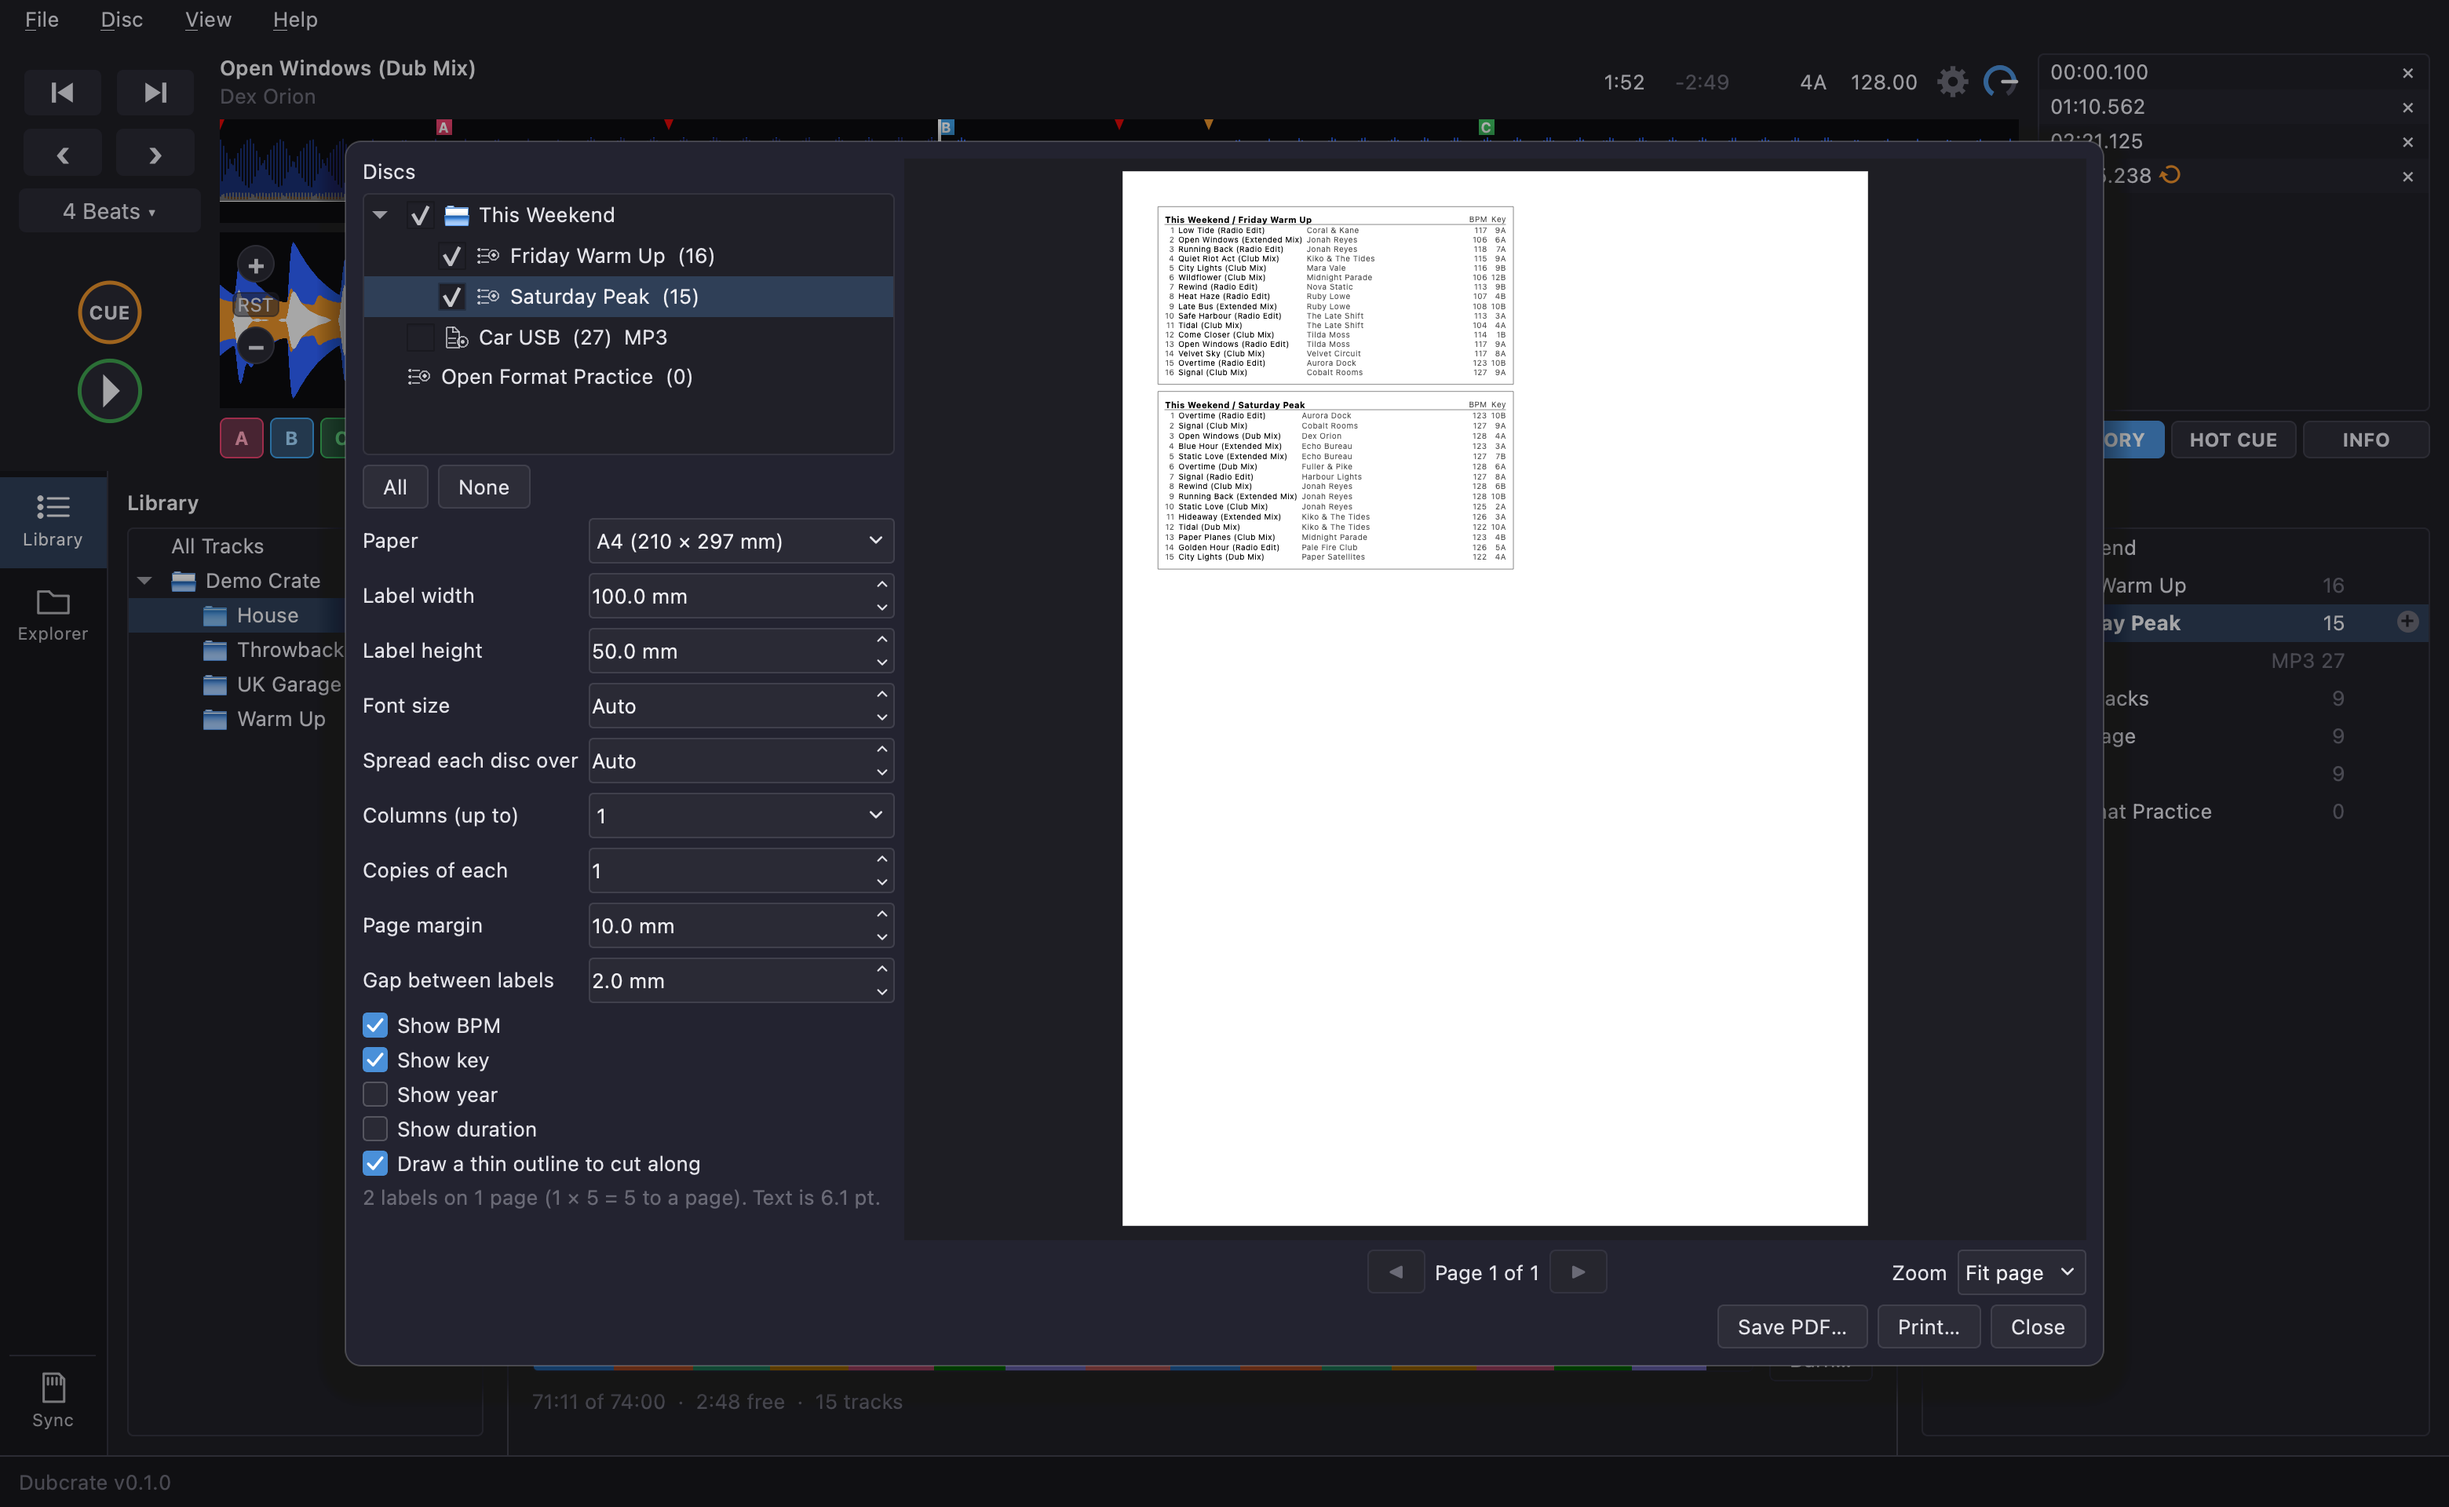
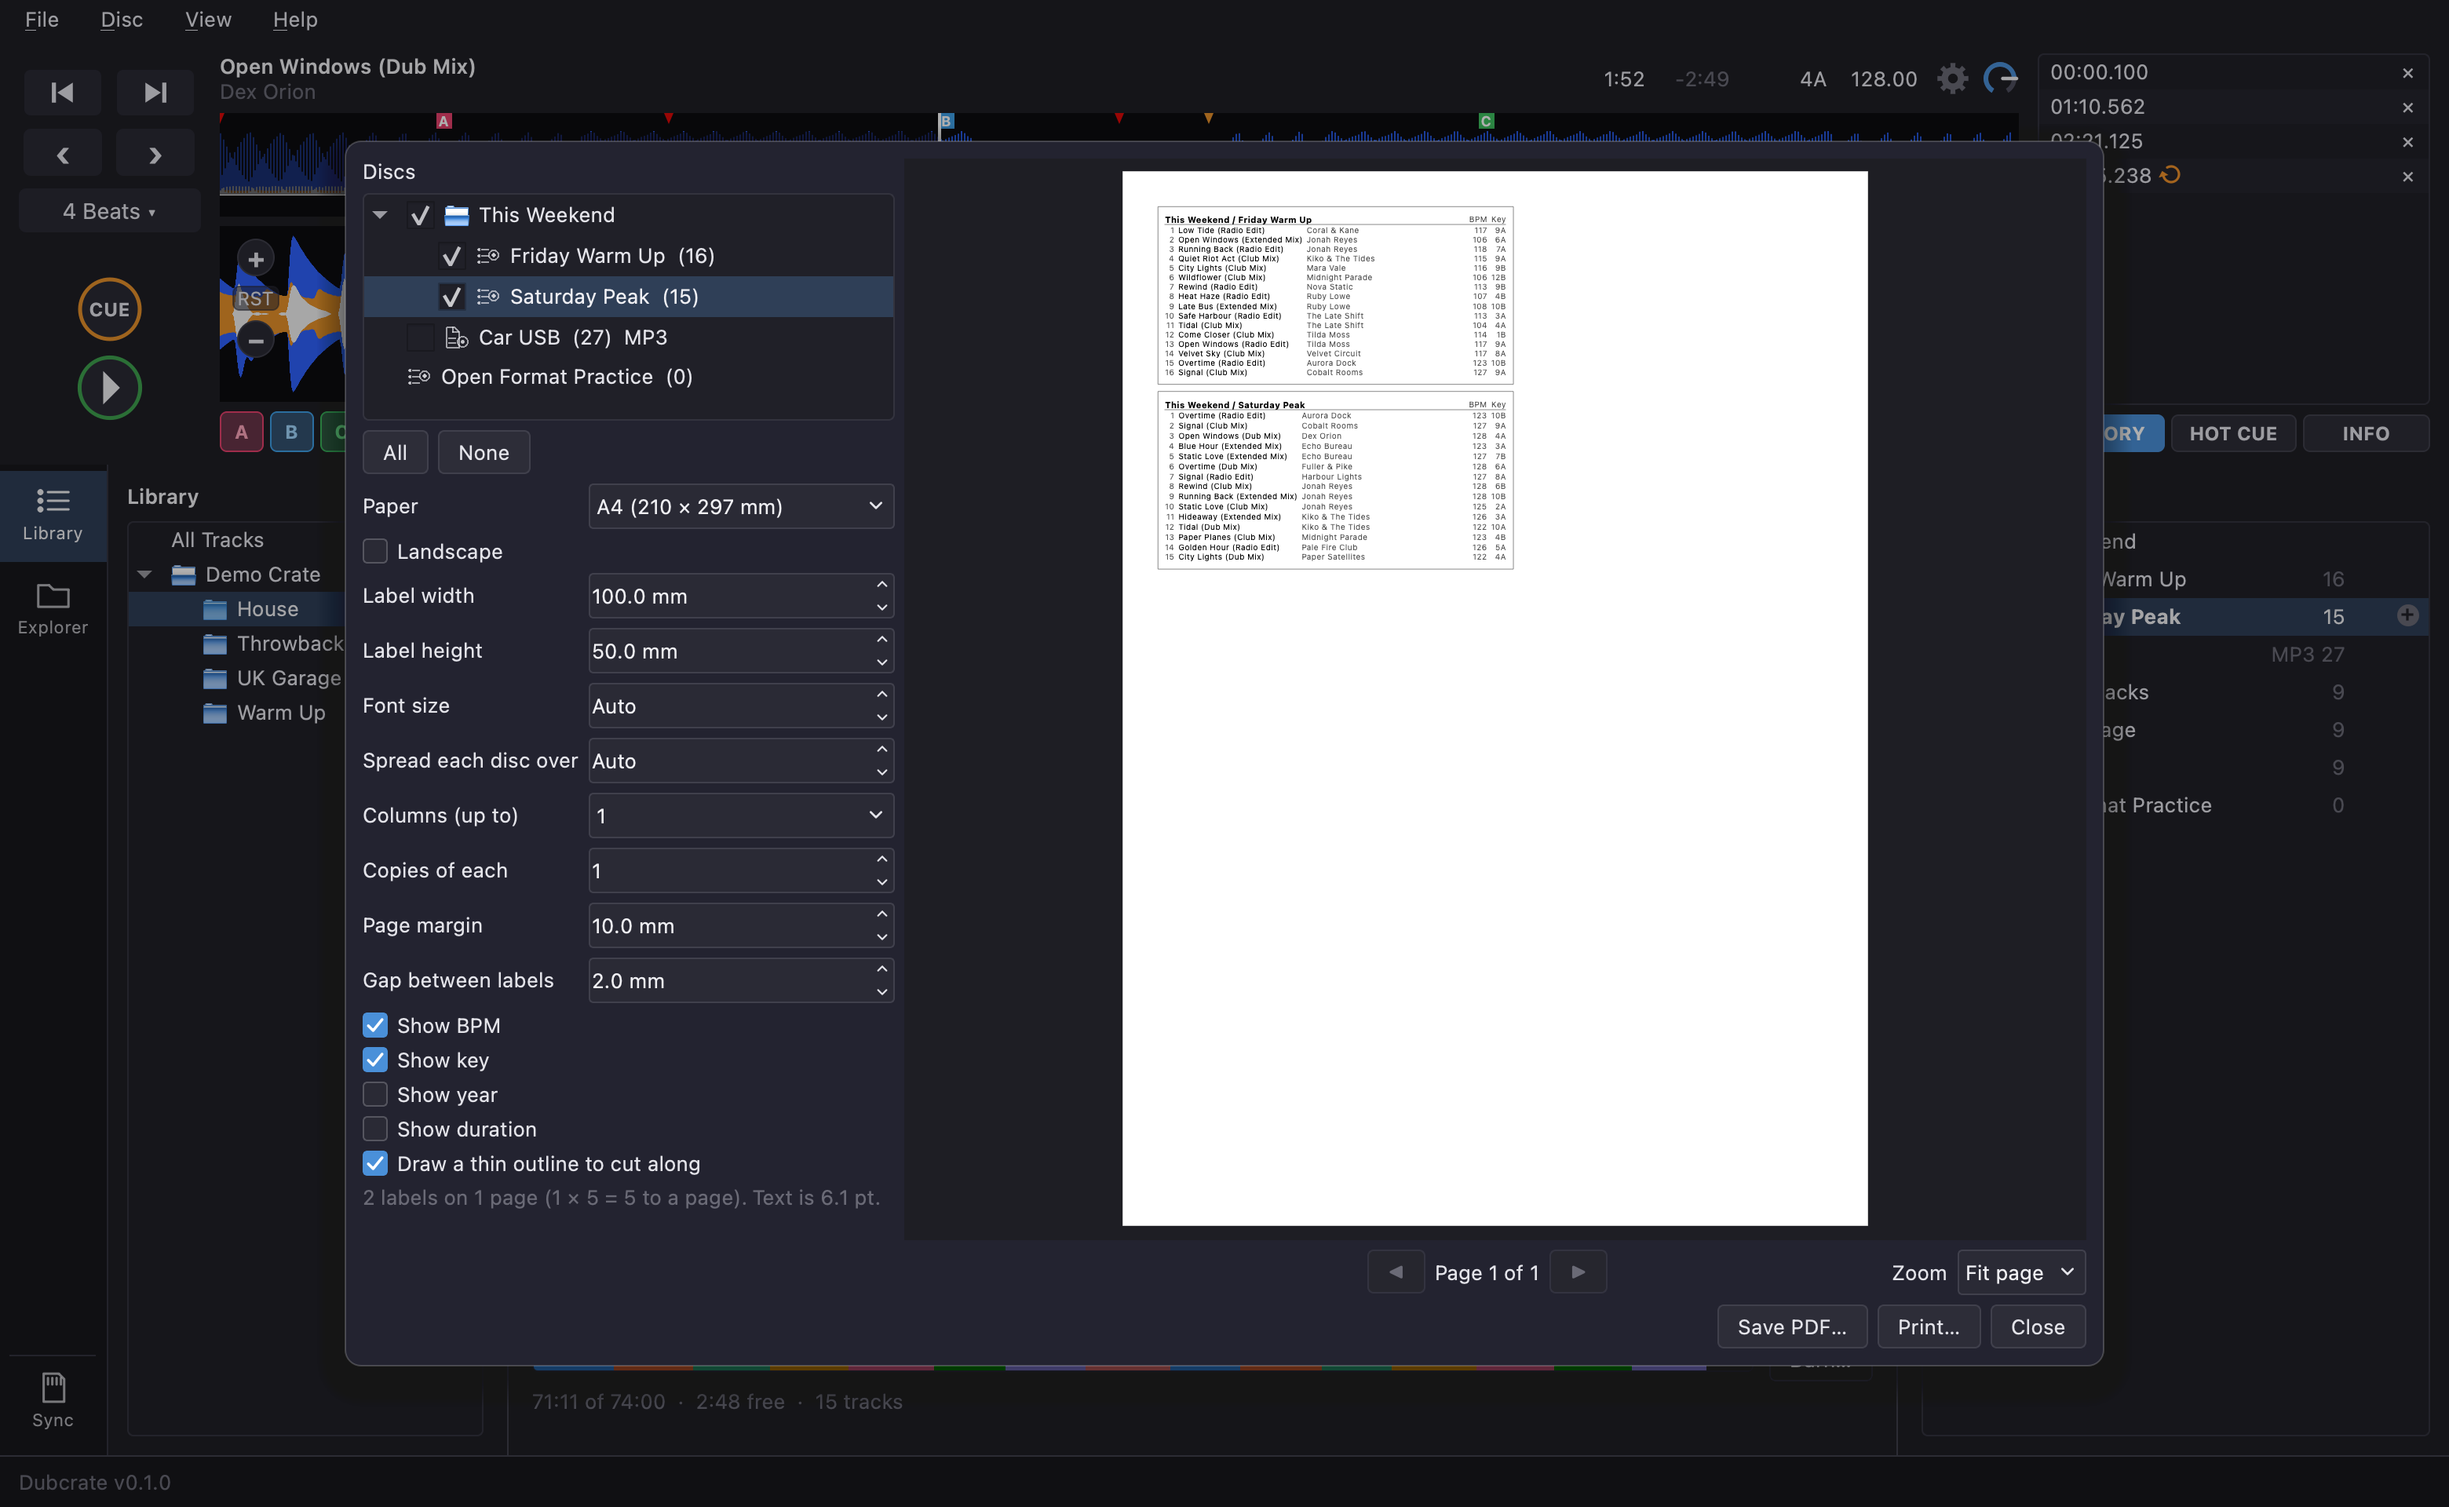
labels: landscape printing option

diff --git a/src/dubcrate/ui/label_dialog.py b/src/dubcrate/ui/label_dialog.py
@@ -130,6 +130,11 @@ class LabelDialog(QDialog):
             self.page_combo.addItem(units.page_text(name, w, h, self._unit), name)
         self.page_combo.setCurrentIndex(max(self.page_combo.findData(o.page), 0))
         self.page_combo.setToolTip("The paper in the printer.")
+        self.landscape_check = QCheckBox("Landscape")
+        self.landscape_check.setChecked(o.landscape)
+        self.landscape_check.setToolTip(
+            "Turn the paper on its side: wide labels fit more to a sheet, so less paper is used."
+        )
         page_w, page_h = o.page_mm
         self.width_spin = LengthSpin(
             o.width_mm, labels.MIN_LABEL_MM, page_w, self._unit.key
@@ -200,6 +205,7 @@ class LabelDialog(QDialog):
 
         form = QFormLayout()
         form.addRow("Paper", self.page_combo)
+        form.addRow(self.landscape_check)
         form.addRow("Label width", self.width_spin)
         form.addRow("Label height", self.height_spin)
         form.addRow("Font size", self.font_spin)
@@ -297,6 +303,7 @@ class LabelDialog(QDialog):
             spin.valueChanged.connect(self.refresh)
         self.columns_combo.currentIndexChanged.connect(self.refresh)
         self.page_combo.currentIndexChanged.connect(self._page_size_changed)
+        self.landscape_check.toggled.connect(self._page_size_changed)
         self.bpm_check.toggled.connect(self.refresh)
         self.key_check.toggled.connect(self.refresh)
         self.year_check.toggled.connect(self.refresh)
@@ -342,7 +349,7 @@ class LabelDialog(QDialog):
 
     def _page_size_changed(self, *_args) -> None:
         """Labels can't be bigger than the paper: the width and height limits follow it."""
-        page_w, page_h = labels.PAGE_SIZES[self.page_combo.currentData()]
+        page_w, page_h = self.options().page_mm
         # (a value above the new limit is lowered)
         self.width_spin.set_range_mm(labels.MIN_LABEL_MM, page_w)
         self.height_spin.set_range_mm(labels.MIN_LABEL_MM, page_h)
@@ -503,6 +510,7 @@ class LabelDialog(QDialog):
     def options(self) -> labels.LabelOptions:
         return labels.LabelOptions(
             page=self.page_combo.currentData(),
+            landscape=self.landscape_check.isChecked(),
             font_pt=self.font_spin.value(),
             width_mm=self.width_spin.mm,
             height_mm=self.height_spin.mm,

diff --git a/src/dubcrate/labels.py b/src/dubcrate/labels.py
@@ -51,6 +51,9 @@ class LabelOptions:
     """What the user chooses in the print window (and what is remembered between runs)."""
 
     page: str = DEFAULT_PAGE  # a key of PAGE_SIZES
+    landscape: bool = (
+        False  # the paper turned on its side (more labels across a short label)
+    )
     font_pt: float = (
         0.0  # text size in points; 0: as large as fits (see `font_size_mm`)
     )
@@ -73,14 +76,15 @@ class LabelOptions:
 
     @property
     def page_mm(self) -> tuple[float, float]:
-        """(width, height) of the paper in millimetres."""
-        return PAGE_SIZES.get(self.page, PAGE_SIZES[DEFAULT_PAGE])
+        """(width, height) of the paper in millimetres, as it is held: swapped when landscape."""
+        width, height = PAGE_SIZES.get(self.page, PAGE_SIZES[DEFAULT_PAGE])
+        return (height, width) if self.landscape else (width, height)
 
     def clamped(self) -> "LabelOptions":
         """The same options with every number put inside what makes sense: a label is never
         bigger than the page, and an unknown paper is A4."""
         page = self.page if self.page in PAGE_SIZES else DEFAULT_PAGE
-        page_w, page_h = PAGE_SIZES[page]
+        page_w, page_h = replace(self, page=page).page_mm
         return replace(
             self,
             page=page,

diff --git a/tests/test_ui_labels.py b/tests/test_ui_labels.py
@@ -978,3 +978,26 @@ def test_all_three_side_columns_print_in_one_and_in_several_columns(
         )
         dialog.save_pdf()
         assert target.read_bytes().startswith(b"%PDF")
+
+
+def test_landscape_sets_the_printers_page_the_limits_the_preview_and_is_remembered(
+    qapp, lib, discs
+):
+    layout = label_paint.page_layout(labels.LabelOptions(landscape=True))
+    mm = layout.pageSize().size(layout.pageSize().Unit.Millimeter)
+    assert layout.orientation() == layout.Orientation.Landscape
+    assert round(layout.fullRect(layout.Unit.Millimeter).width()) == 297
+    assert (round(mm.width()), round(mm.height())) == (210, 297)  # (the paper itself)
+    dialog = LabelDialog(lib)
+    dialog.resize(900, 700)
+    dialog.show()
+    tick(dialog, discs[0])
+    assert dialog.width_spin.maximum() == 210
+    dialog.landscape_check.setChecked(True)
+    assert dialog.width_spin.maximum() == 297 and dialog.height_spin.maximum() == 210
+    assert abs(aspect(dialog.preview) - 297 / 210) < 0.01
+    assert dialog.options().landscape
+    settings.set_label_options(dialog.options())
+    assert settings.get_label_options().landscape
+    dialog.close()
+    assert LabelDialog(lib).landscape_check.isChecked()  # comes back as it was left

diff --git a/tests/test_labels.py b/tests/test_labels.py
@@ -531,3 +531,16 @@ def test_the_side_columns_are_the_ones_with_something_in_them_in_a_fixed_order()
     assert time_only.side_columns == (("Time", "length"),)
     [none] = labels.build_labels("N", es, LabelOptions(show_bpm=False, show_key=False))
     assert none.side_columns == ()
+
+
+def test_landscape_turns_the_paper_so_a_wide_label_fits_more_to_a_sheet():
+    base = LabelOptions(width_mm=100, height_mm=50)
+    assert labels.sheet_for(base).per_page == 5  # 1 across, 5 down on portrait A4
+    sideways = replace(base, landscape=True)
+    assert sideways.page_mm == (297.0, 210.0)
+    sheet = labels.sheet_for(sideways)
+    assert (sheet.columns, sheet.rows) == (2, 3)  # 277 x 190 mm of room
+    # a label wider than portrait paper is allowed once it is turned
+    wide = LabelOptions(width_mm=250, height_mm=50, landscape=True).clamped()
+    assert wide.width_mm == 250
+    assert LabelOptions(width_mm=250, height_mm=50).clamped().width_mm == 210

diff --git a/src/dubcrate/ui/label_paint.py b/src/dubcrate/ui/label_paint.py
@@ -53,10 +53,12 @@ PAGE_IDS = {
 
 
 def page_layout(options: LabelOptions) -> QPageLayout:
-    """The chosen paper, portrait, with no margins: the options place everything themselves."""
+    """The chosen paper, portrait or landscape, with no margins: the options place everything themselves."""
     return QPageLayout(
         QPageSize(PAGE_IDS[options.page]),
-        QPageLayout.Orientation.Portrait,
+        QPageLayout.Orientation.Landscape
+        if options.landscape
+        else QPageLayout.Orientation.Portrait,
         QMarginsF(0, 0, 0, 0),
     )
 

diff --git a/src/dubcrate/settings.py b/src/dubcrate/settings.py
@@ -264,6 +264,7 @@ def get_label_options() -> labels.LabelOptions:
 
     return labels.LabelOptions(
         page=str(qs.value("labels/page", default.page)),
+        landscape=_as_bool(qs.value("labels/landscape"), default.landscape),
         font_pt=number("font_pt", default.font_pt),
         width_mm=number("width_mm", default.width_mm),
         height_mm=number("height_mm", default.height_mm),

diff --git a/src/dubcrate/ui/help/manual.md b/src/dubcrate/ui/help/manual.md
@@ -228,7 +228,7 @@ Old players have no screen for a track list, so Dubcrate can print one for the c
 ![The label window: two discs on one sheet, with the settings on the left](screenshots/labels.png "The label window")
 
 1. **Tick the discs** to print (ticking a folder ticks its discs; **All** and **None** help). Each label is headed with the disc's name and its folders.
-2. Choose the **Paper** (A3, A4, A5, A6, US Letter or US Legal) and type the **Label width** and **Label height**, in the unit set under **Settings > Appearance > Units**. 100 × 50 mm is a good start for a case.
+2. Choose the **Paper** (A3, A4, A5, A6, US Letter or US Legal), tick **Landscape** to turn it on its side (wide labels then fit more to a sheet, which saves paper), and type the **Label width** and **Label height**, in the unit set under **Settings > Appearance > Units**. 100 × 50 mm is a good start for a case.
 3. **Font size** is **Auto** (as large as fits) unless you pick a size. **Spread each disc over** says how many labels one disc is divided between (**Auto** uses the fewest that stay readable). **Columns (up to)** lets a long list run in columns. **Copies of each** repeats every label.
 4. **Page margin** keeps clear of the edge your printer can't reach; **Gap between labels** leaves room to cut. **Draw a thin outline to cut along** can be turned off.
 5. Press **Print…** or **Save PDF…**.
